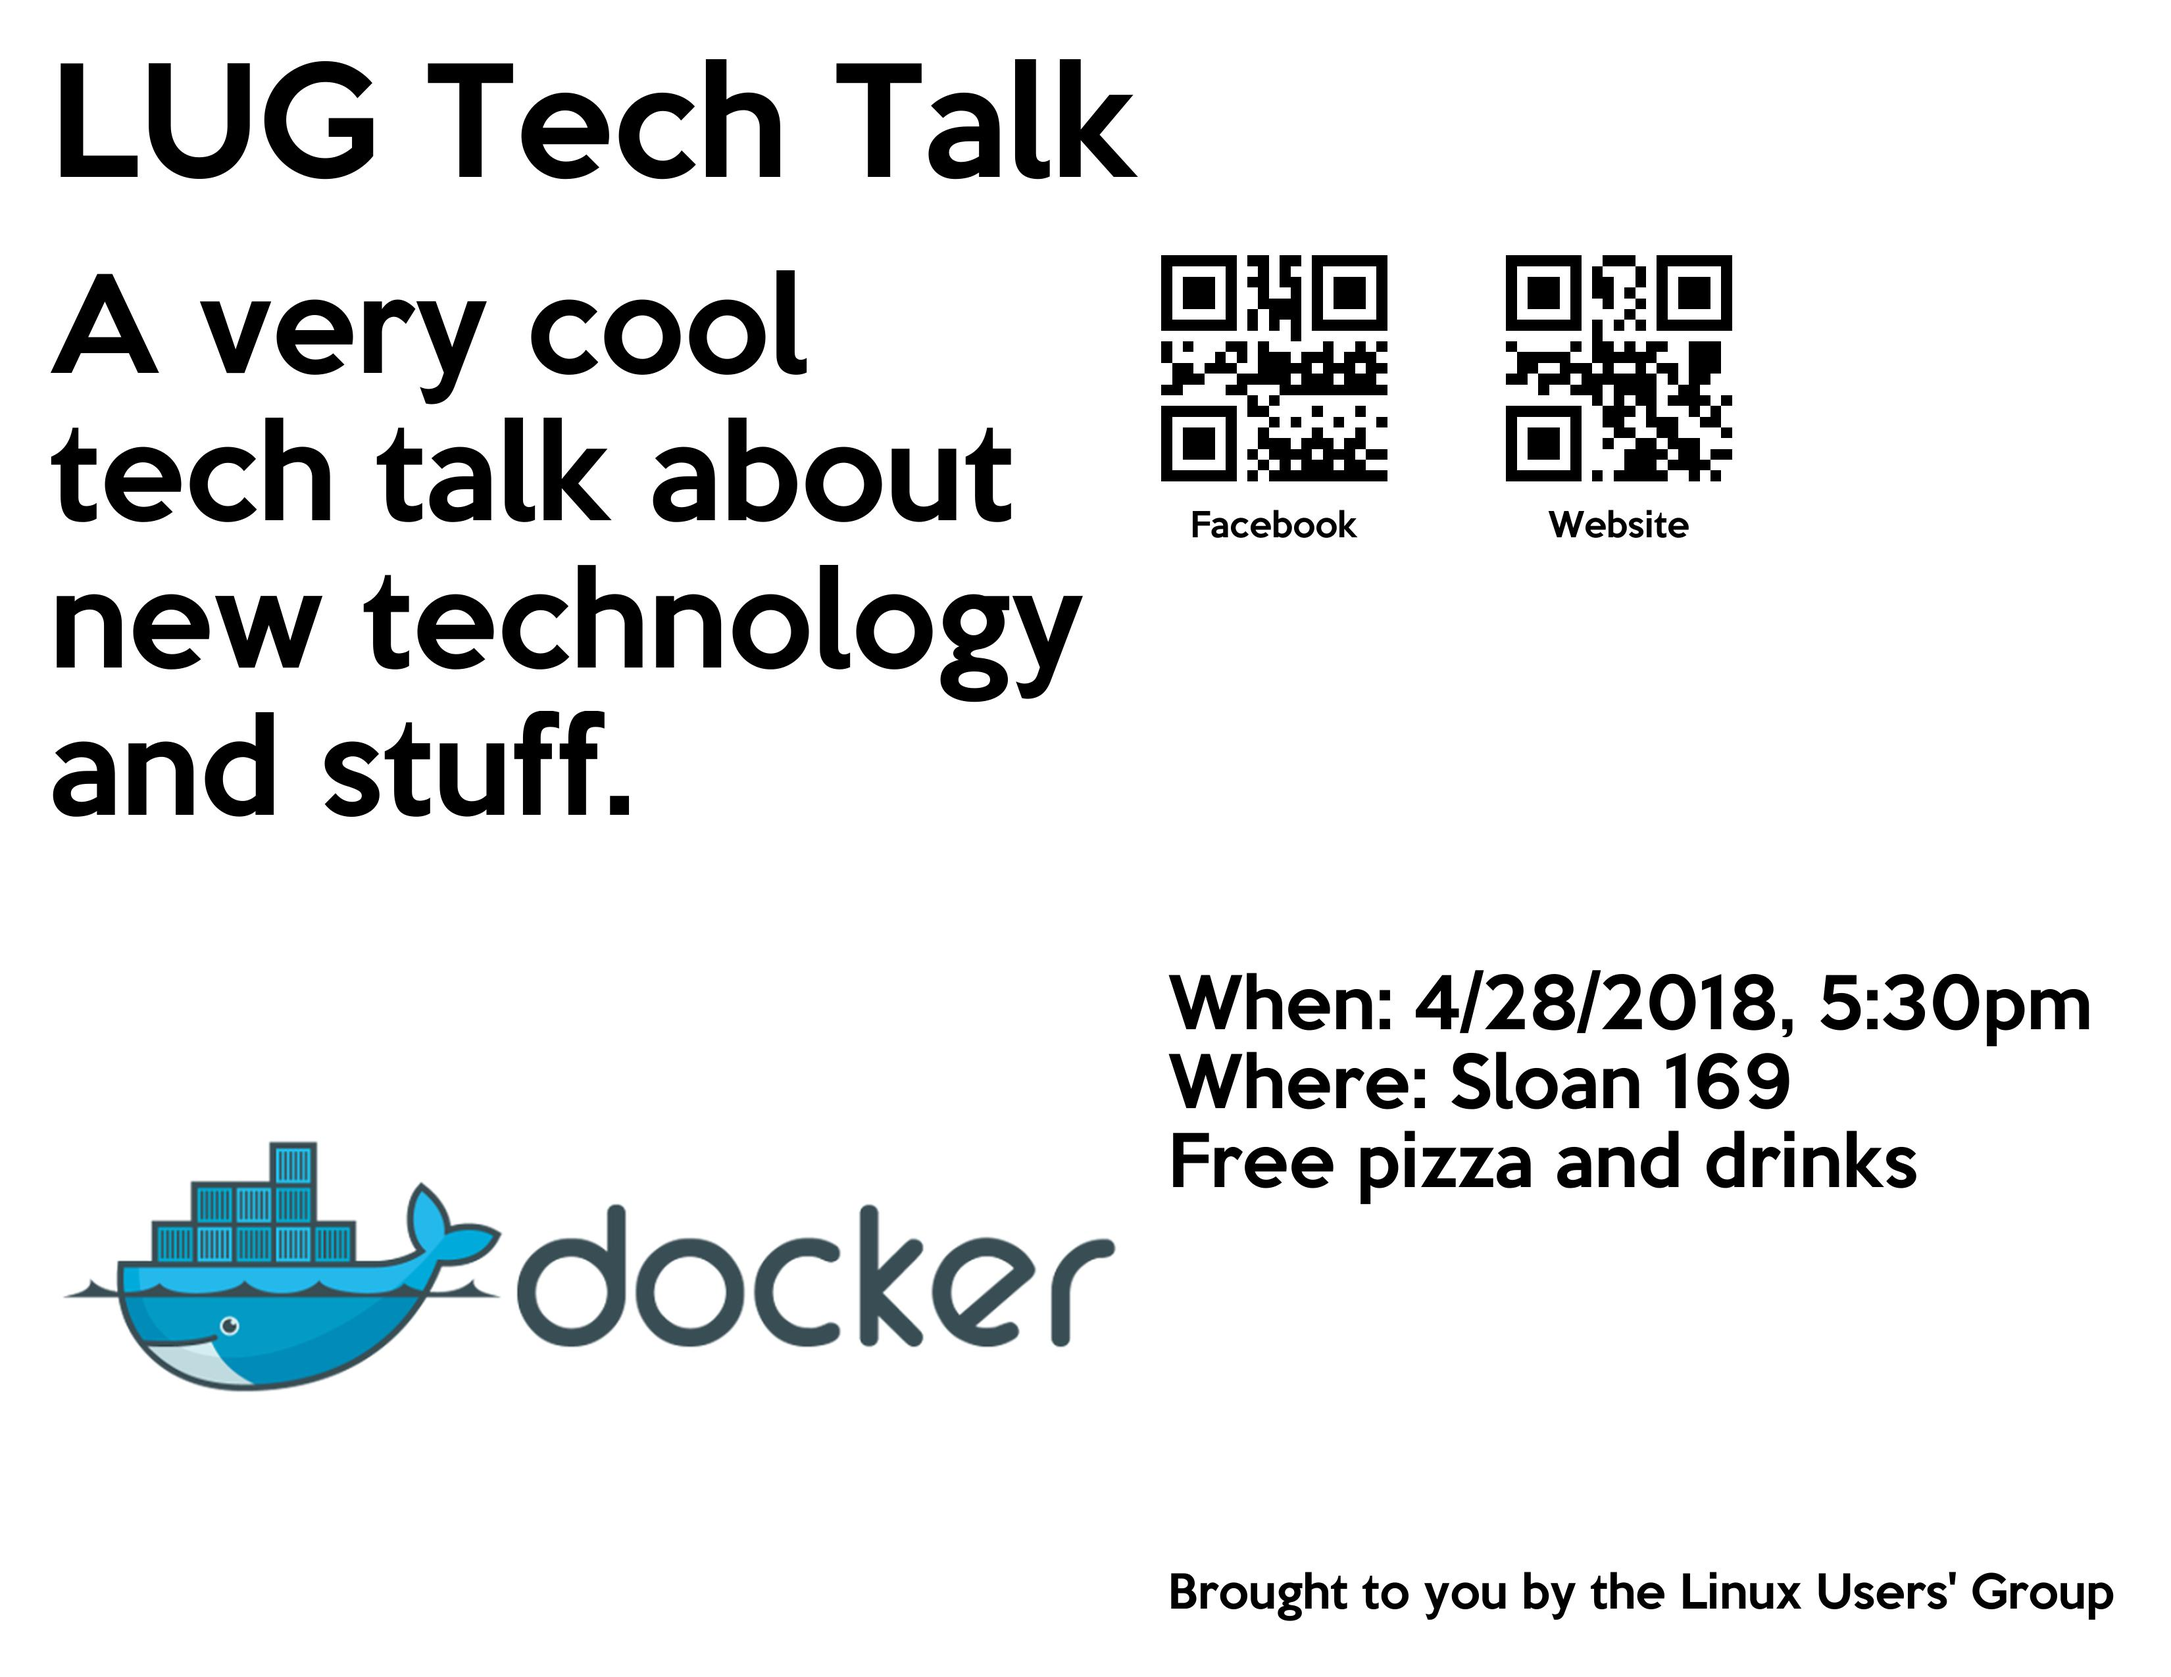
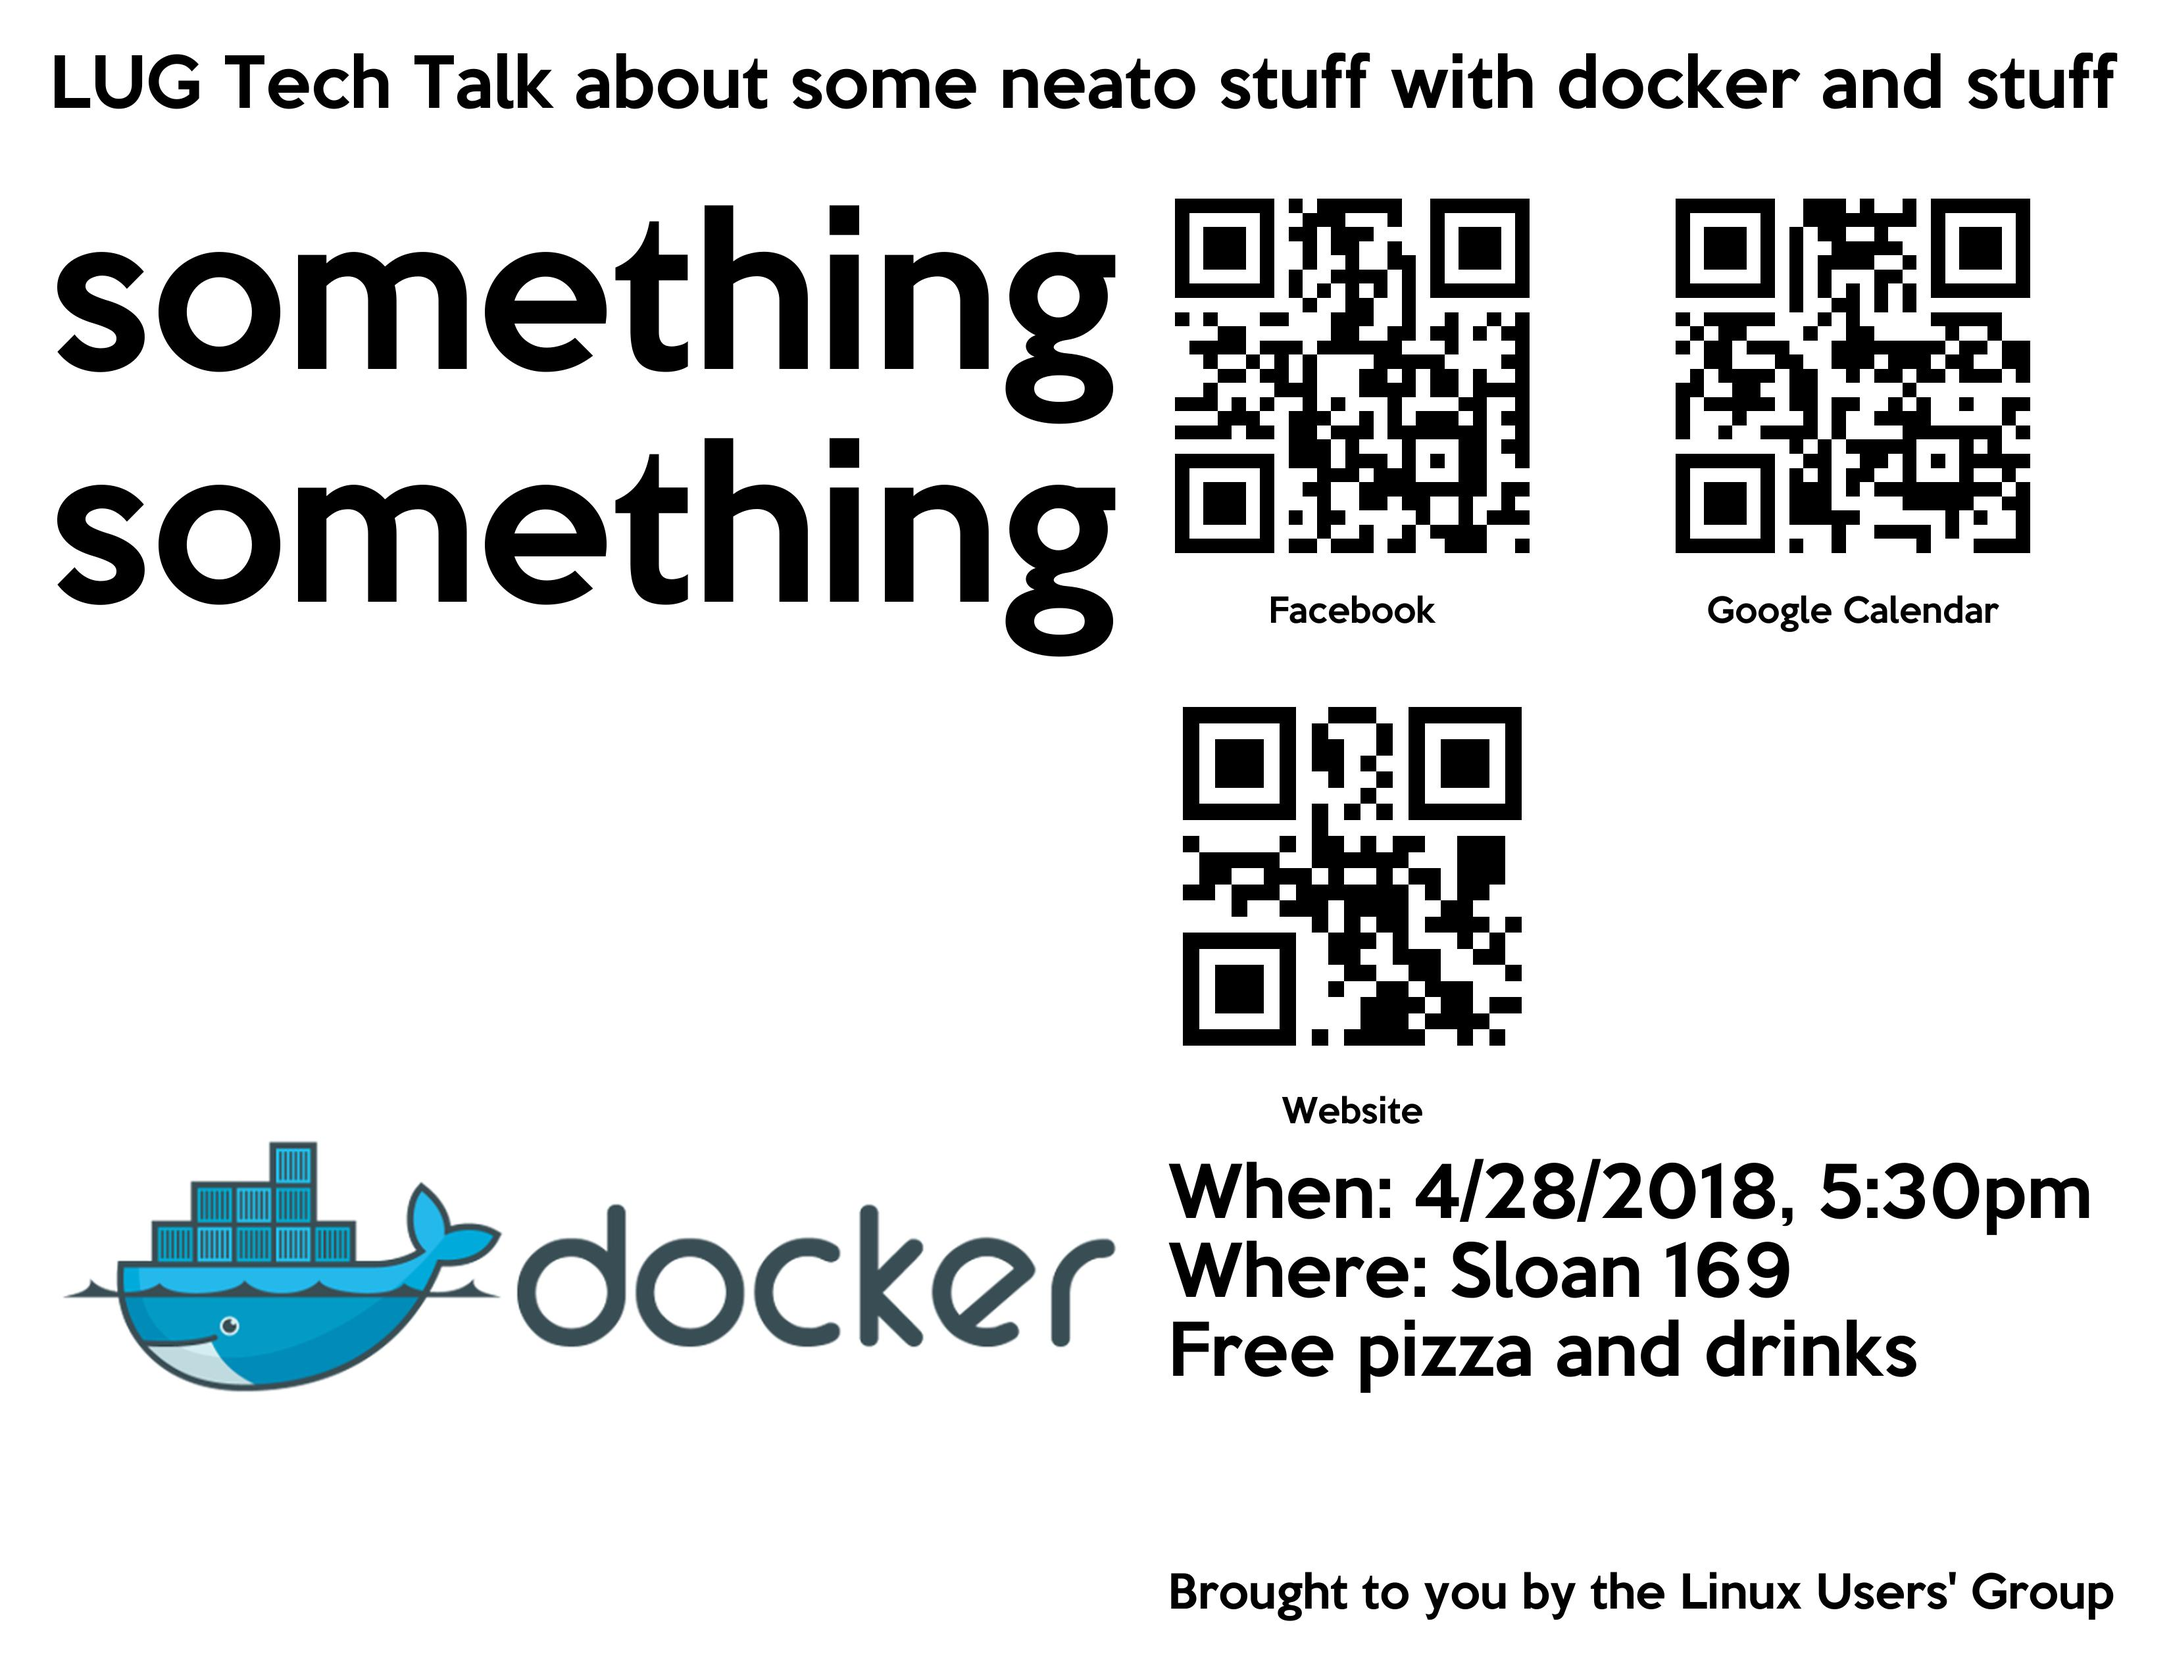
Mostly error handling updates. unstable.

Changed region(s): [[0.0, 0.031, 0.9988, 0.4957], [0.5306, 0.4027, 0.9676, 0.8365]]

diff --git a/main.py b/main.py
@@ -12,7 +12,7 @@ from argparse import Namespace
 import argparse
 
 
-
+# checks to make sure necessary params are there
 def params_sanity(result):
     if(result.date == None):
         if(result.time != None):
@@ -46,6 +46,7 @@ def make_blank_page():
 
 
 # wraps words in a bounding box. basic.
+# bounding box format: [top left, top right, bottom left, bottom right]
 def draw_multiline(drawer, bounding_box, fontname, text, numlines=10000):
     yprogress = 0
     size = 300
@@ -79,7 +80,7 @@ def draw_multiline(drawer, bounding_box, fontname, text, numlines=10000):
         lineheight = font.getsize(text.split("\n")[0])[1]
         font = ImageFont.truetype(fontname, size - 1)
         size -= 1
-        print("Size = " + str(size))
+        #print("Size = " + str(size))
 
         for lineOfText in text.split("\n"):
             line = ""
@@ -115,6 +116,7 @@ def build_logistics(when, where, pizza):
     return output
 
 def template1(background, results):
+    response = {}
     featuredImage = Image.open(results.photo)
     print(featuredImage.size)
     # We want the featured image to be 1/5 of the size of background page
@@ -122,8 +124,8 @@ def template1(background, results):
     ratio = min(finalSize[0]/(featuredImage.size[0]), finalSize[1]/(featuredImage.size[1]))
     print("Ratio: " + str(ratio))
     if(ratio > 1):
-        print("You might want to find a larger image! Preferably one that is at least " + str(finalSize[0]) + "x" + str(finalSize[1]) + "(WxL)")
-        print("Generating poster anyway...")
+        response["larger_image_dimension_width"] = finalSize[0]
+        response["larger_image_dimension_height"] = finalSize[1]
     resizeSize = (math.floor(ratio * featuredImage.size[0]), math.floor(ratio * featuredImage.size[1]))
     featuredImage = featuredImage.resize(resizeSize, Image.ANTIALIAS)
 
@@ -165,15 +167,18 @@ def template1(background, results):
         numberOfQRCodes += 1
     if(results.website != None):
         numberOfQRCodes += 1
+
+
     # Draw qr codes
     currentQr = 0
     if(numberOfQRCodes != 0):
-        qrHeight = math.floor((topOfFeaturedImage - internalMargin) / (numberOfQRCodes + 1))
+        qrHeight = math.floor((topOfFeaturedImage - internalMargin) / (numberOfQRCodes - 1))
     
     qrPositions = [(math.floor(background.size[0] * 0.5) + internalMargin, bottomOfTitle + internalMargin),
                 (math.floor(background.size[0] * 0.5) + internalMargin + qrHeight + internalMargin, bottomOfTitle + internalMargin),
                 (math.floor(background.size[0] * 0.5) + internalMargin, bottomOfTitle + internalMargin + internalMargin + qrHeight)]
 
+    # function definied within another function ;)
     def getQRCaptionPosition(index, text):
         if(index == 0):
             return (math.floor(background.size[0] * 0.5) + internalMargin + (qrHeight / 2) - (supersmallfont.getsize(text)[0] / 2), bottomOfTitle + (internalMargin / 2) + qrHeight)
@@ -182,12 +187,13 @@ def template1(background, results):
         elif(index == 2):
             return (math.floor(background.size[0] * 0.5) + internalMargin + (qrHeight / 2) - (supersmallfont.getsize(text)[0] / 2), bottomOfTitle + internalMargin + qrHeight + (internalMargin / 2) + qrHeight)
     
-
+    bottomOfQRCodes = 0
     if(results.facebook != None):
         facebook = qrcode.make(str(results.facebook)).resize((qrHeight, qrHeight), Image.ANTIALIAS)
         background.paste(facebook, qrPositions[currentQr])
         fbcaption = "Facebook"
         draw.text(getQRCaptionPosition(currentQr, fbcaption), fbcaption, (0,0,0,255), font=supersmallfont)
+        bottomOfQRCodes = getQRCaptionPosition(currentQr, fbcaption)[1] + supersmallfont.getsize(fbcaption)[1]
         currentQr += 1
     background.save("output.jpg")
     if(results.gcal != None):
@@ -195,6 +201,7 @@ def template1(background, results):
         background.paste(gcal, qrPositions[currentQr])
         gcalcaption = "Google Calendar"
         draw.text(getQRCaptionPosition(currentQr, gcalcaption), gcalcaption, (0,0,0,255), font=supersmallfont)
+        bottomOfQRCodes = getQRCaptionPosition(currentQr, gcalcaption)[1] + supersmallfont.getsize(gcalcaption)[1]
         currentQr += 1
     background.save("output.jpg") 
     if(results.website != None):
@@ -202,28 +209,42 @@ def template1(background, results):
         background.paste(website, qrPositions[currentQr])
         websitecaption = "Website"
         draw.text(getQRCaptionPosition(currentQr, websitecaption), websitecaption, (0,0,0,255), font=supersmallfont)
+        bottomOfQRCodes = getQRCaptionPosition(currentQr, websitecaption)[1] + supersmallfont.getsize(websitecaption)[1]
         currentQr += 1
     background.save("output.jpg")
     
     
     
-
+    dateAndTime = None
     # Draw event time, date, and/or location
-    if(results.date != None):
+    if(results.date != None and results.time == None):
         dateAndTime = build_logistics(results.date, results.location, results.pizza)
-        if(results.time != None):
-            dateAndTime = build_logistics(results.date + ", " + results.time, results.location, results.pizza)
-        draw_multiline(draw, (sideOfFeaturedImage + internalMargin, topOfFeaturedImage, rightMargin, bottomMargin), "keep-calm.ttf", dateAndTime, numlines=3)
-        print("Drew date and time")
+    elif(results.time != None):
+        dateAndTime = build_logistics(results.date + ", " + results.time, results.location, results.pizza)
+    draw_multiline(draw, (sideOfFeaturedImage + internalMargin, bottomOfQRCodes + internalMargin, rightMargin, bottomMargin), "keep-calm.ttf", dateAndTime, numlines=3)
+
         
-    background.save("static/output.jpg")
-    print("Done")
+    background.save("output.jpg")
+    return response
+    # All done!
 
 def buildPoster(name, desc, date, time, location, photo, facebook, gcal, website, pizza):
+    response = {}
     if(photo != None):
-        urllib.request.urlretrieve(photo, "photo.png")
+        try:
+            urllib.request.urlretrieve(photo, "photo.png")
+        except(urllib.error.URLError, urllib.error.HTTPError):
+            response["image_request_error"] = True
+            return response
+
     results = Namespace(name=name, desc=desc, date=date, time=time, location=location, photo="photo.png", facebook=facebook, gcal=gcal, website=website, pizza=pizza)
-    template1(make_blank_page(), results)
+    template_response = template1(make_blank_page(), results)
+    response.update(template_response)
+    # current keys in response:
+    # - image_request_error (bool) (critical)
+    # - larger_image_dimension_width (int) (not really an error, more of a suggestion)
+    # - larger_image_dimension_height (int) (not really an error, more of a suggestion)
+    return response
 
 if __name__ == '__main__':
     parser = argparse.ArgumentParser(description="Creates a poster for a LUG event")
@@ -250,7 +271,6 @@ if __name__ == '__main__':
     print("Is this correct? [yY/nN]")
     response = input("")
     if(response in ["y", "Y"]):
-        print("hooray!")
         template1(make_blank_page(), result)
 
     else:

diff --git a/server.py b/server.py
@@ -2,7 +2,10 @@ from flask import Flask
 from flask import request
 from flask import make_response
 from flask import jsonify
-
+from flask import send_from_directory
+import hashlib
+import os
+from fpdf import FPDF
 
 import main
 
@@ -12,10 +15,18 @@ def none_if_empty(a_request, key):
     else:
         return None
 
+# TODO: not scalable, should iterate through list of params that should not be None.
+def params_check(name, date, desc, location, photo):
+    if((name != None and date != None and desc != None and location != None and photo != None) != True):
+        return False
+    else:
+        return True
+
 app = Flask(__name__)
 
 @app.route("/generate", methods=["POST"])
 def generate():
+    errors = {}
     name = none_if_empty(request, "name")
     
     date = none_if_empty(request, "date")
@@ -27,6 +38,34 @@ def generate():
     gcal = none_if_empty(request, "gcal")
     website = none_if_empty(request, "website")
     pizza = bool(none_if_empty(request, "pizza"))
-    main.buildPoster(name, desc, date, time, location, photo, facebook, gcal, website, pizza)
-    print("WE RECEIVED: " + str(name))
-    return app.send_static_file("output.jpg")
+    # buildPoster creates a high-res JPG. We want it to be in pdf for delivery
+    errors["param_error"] = params_check(name, date, desc, location, photo)
+    if(errors["param_error"]):
+        return jsonify(errors)
+
+    poster_errors = main.buildPoster(name, desc, date, time, location, photo, facebook, gcal, website, pizza)
+    errors.update(poster_errors)
+    eventhash = hashlib.md5(str(name + date + time + location + photo + gcal + website + facebook).encode()).hexdigest()
+    pdf = FPDF('L', 'in', 'Letter')
+    pdf.add_page()
+    pdf.set_margins(0,0,0)
+    pdf.image("output.jpg", 0, 0, 11)
+    pdf.output("output.pdf", "F")
+    os.rename("output.pdf", str(eventhash) + ".pdf")
+    return jsonify(
+        errors,
+        hash=eventhash
+    )
+
+
+@app.route("/result/<string:eventhash>", methods=["GET"])
+def returnPoster(eventhash):
+    print(eventhash)
+    if(os.path.isfile(str(eventhash) + ".pdf")):
+        print(os.getcwd() + "/" + str(eventhash) + ".pdf")
+        return send_from_directory(os.getcwd(), str(eventhash) + ".pdf")
+    else:
+        return "none"
+
+
+print(app.url_map)
